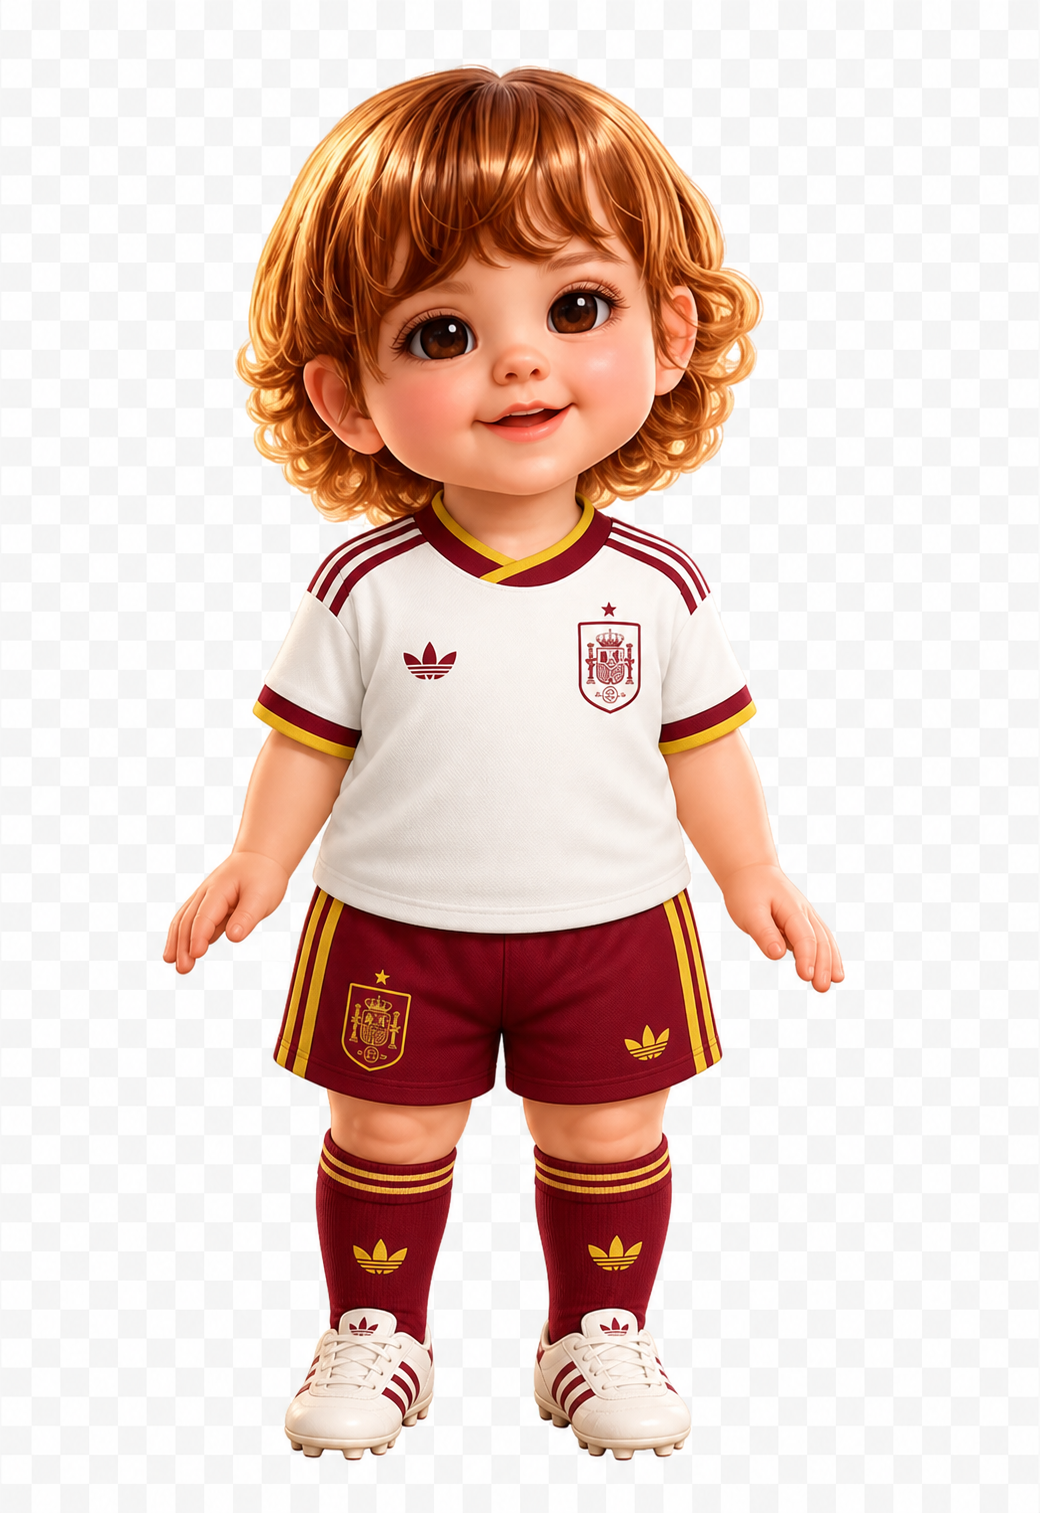
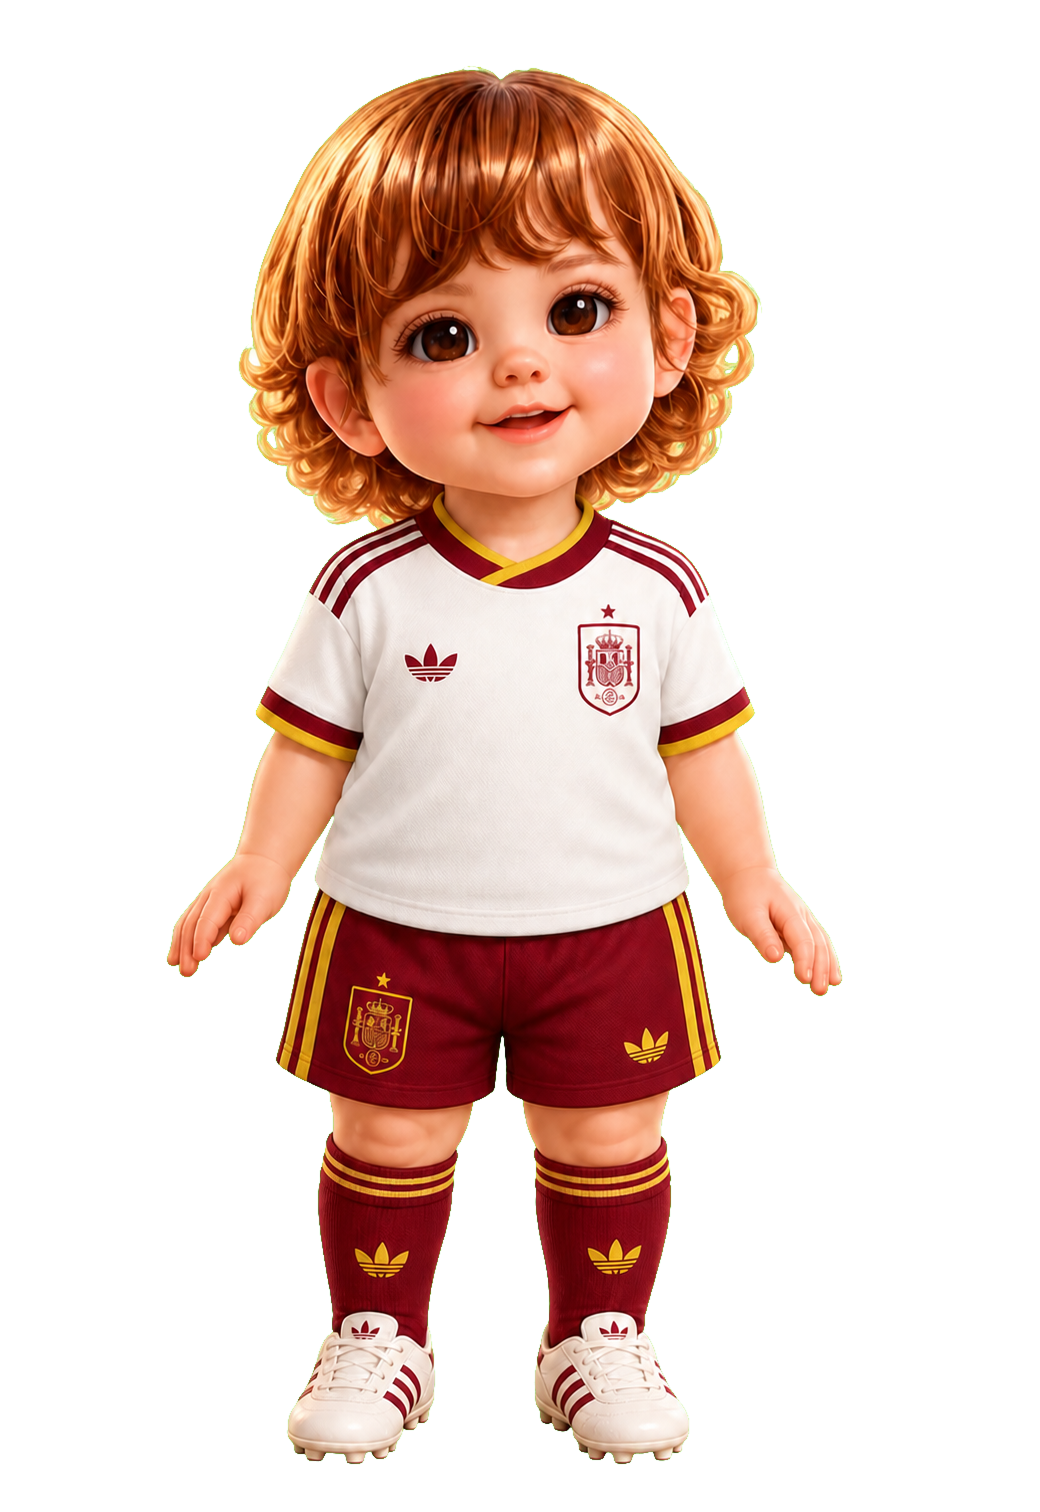
Fix Spain and Argentina outfit cutouts

diff --git a/public/app/script.js b/public/app/script.js
@@ -28,12 +28,12 @@ const outfits={original:"Su look original",jardinera:"Jardinera arcoíris",lluvi
 const isNationalKit=name=>name==="espana"||name==="argentina";
 const outfitImage=name=>`img/personajes/armario/display/${name}.${isNationalKit(name)?"png":"webp"}`;
 let selectedOutfit=(()=>{try{const saved=localStorage.getItem("holaPequeOutfit");return saved==="flores"?"original":outfits[saved]?saved:"original"}catch{return "original"}})();
-function showChosenOutfit(name){const src=outfitImage(name),kit=isNationalKit(name),mascot=document.querySelector("#mascot-button .mascot"),card=document.querySelector(".card-illustration--dress");if(mascot){mascot.src=src;mascot.alt=`Nuestra amiga lleva ${outfits[name].toLowerCase()}`;mascot.classList.toggle("kit-image",kit)}if(card){card.src=src;card.classList.toggle("kit-image",kit)}}
+function showChosenOutfit(name){const src=outfitImage(name),mascot=document.querySelector("#mascot-button .mascot"),card=document.querySelector(".card-illustration--dress");if(mascot){mascot.src=src;mascot.alt=`Nuestra amiga lleva ${outfits[name].toLowerCase()}`}if(card){card.src=src}}
 let wardrobeCarousel=null,wardrobeDirection=1;
 function startLookCarousel(){const rail=document.querySelector(".outfit-list"),manual=matchMedia("(max-width:800px)").matches;clearInterval(wardrobeCarousel);wardrobeCarousel=null;wardrobeDirection=1;if(manual){const chosen=rail.querySelector(`[data-outfit="${selectedOutfit}"]`);rail.scrollTo({left:0,top:Math.max(0,(chosen?.offsetTop||0)-rail.clientHeight/3),behavior:"auto"});return}rail.scrollTo({left:0,top:0,behavior:"auto"});wardrobeCarousel=setInterval(()=>{const pos=rail.scrollLeft,end=rail.scrollWidth-rail.clientWidth;if(end<2)return;wardrobeDirection=pos>=end-4?-1:pos<=4?1:wardrobeDirection;rail.scrollBy({left:wardrobeDirection*Math.min(220,rail.clientWidth*.7),behavior:"smooth"})},1350)}
 function speakWardrobeIntro(){if(!("speechSynthesis" in window))return;window.speechSynthesis.cancel();const phrase=new SpeechSynthesisUtterance("¡Elige un look!");phrase.lang="es-ES";phrase.rate=.82;phrase.pitch=1.25;const voices=window.speechSynthesis.getVoices(),voice=voices.find(v=>v.lang.toLowerCase().startsWith("es")&&/female|mujer|elvira|ximena|dalia|helena|lucia|paulina/i.test(v.name))||voices.find(v=>v.lang.toLowerCase().startsWith("es"));if(voice)phrase.voice=voice;window.speechSynthesis.speak(phrase)}
 function startWardrobe(){changeOutfit(selectedOutfit,false);document.querySelector("#wardrobe-feedback").textContent="";startLookCarousel();speakWardrobeIntro()}
-function changeOutfit(name,speak=true){selectedOutfit=name;try{localStorage.setItem("holaPequeOutfit",name)}catch{}const avatar=document.querySelector("#wardrobe-avatar");avatar.classList.remove("is-changing");void avatar.offsetWidth;avatar.src=outfitImage(name);avatar.alt=`La niña lleva ${outfits[name].toLowerCase()}`;avatar.classList.toggle("kit-image",isNationalKit(name));avatar.classList.add("is-changing");showChosenOutfit(name);document.querySelectorAll(".outfit-option").forEach(button=>button.classList.toggle("is-selected",button.dataset.outfit===name));if(speak){clearInterval(wardrobeCarousel);const feedback=document.querySelector("#wardrobe-feedback");feedback.textContent="⭐ ¡Bravo! ⭐";feedback.classList.remove("is-showing");void feedback.offsetWidth;feedback.classList.add("is-showing");playVoiceFile("sonidos/voz/mascota/1.mp3?v=2")}}
+function changeOutfit(name,speak=true){selectedOutfit=name;try{localStorage.setItem("holaPequeOutfit",name)}catch{}const avatar=document.querySelector("#wardrobe-avatar");avatar.classList.remove("is-changing");void avatar.offsetWidth;avatar.src=outfitImage(name);avatar.alt=`La niña lleva ${outfits[name].toLowerCase()}`;avatar.classList.add("is-changing");showChosenOutfit(name);document.querySelectorAll(".outfit-option").forEach(button=>button.classList.toggle("is-selected",button.dataset.outfit===name));if(speak){clearInterval(wardrobeCarousel);const feedback=document.querySelector("#wardrobe-feedback");feedback.textContent="⭐ ¡Bravo! ⭐";feedback.classList.remove("is-showing");void feedback.offsetWidth;feedback.classList.add("is-showing");playVoiceFile("sonidos/voz/mascota/1.mp3?v=2")}}
 document.querySelectorAll("[data-outfit]").forEach(button=>{button.addEventListener("pointerdown",()=>{clearInterval(wardrobeCarousel);wardrobeCarousel=null},{passive:true});button.onclick=()=>changeOutfit(button.dataset.outfit)});
 document.querySelector("#wardrobe-dance").onclick=()=>{const avatar=document.querySelector("#wardrobe-avatar");avatar.classList.remove("is-dancing");void avatar.offsetWidth;avatar.classList.add("is-dancing");playVoiceFile("sonidos/voz/mascota/0.mp3?v=2")};
 showChosenOutfit(selectedOutfit);

diff --git a/public/app/index.html b/public/app/index.html
@@ -152,8 +152,8 @@
         <button class="outfit-option" data-outfit="azul-lazo" aria-label="Vestido azul con lazo"><img src="img/personajes/armario/thumbs/azul-lazo.webp" alt="" loading="lazy"><span>🎀</span></button>
         <button class="outfit-option" data-outfit="ceremonia" aria-label="Vestido verde agua"><img src="img/personajes/armario/thumbs/ceremonia.webp" alt="" loading="lazy"><span>🌿</span></button>
         <button class="outfit-option" data-outfit="coral" aria-label="Conjunto salmón"><img src="img/personajes/armario/thumbs/coral.webp" alt="" loading="lazy"><span>☀</span></button>
-        <button class="outfit-option" data-outfit="espana" aria-label="Equipación de España"><img class="kit-image" src="img/personajes/armario/display/espana.png" alt="" loading="lazy"><span>🇪🇸</span></button>
-        <button class="outfit-option" data-outfit="argentina" aria-label="Equipación de Argentina"><img class="kit-image" src="img/personajes/armario/display/argentina.png" alt="" loading="lazy"><span>🇦🇷</span></button>
+        <button class="outfit-option" data-outfit="espana" aria-label="Equipación de España"><img src="img/personajes/armario/display/espana.png" alt="" loading="lazy"><span>🇪🇸</span></button>
+        <button class="outfit-option" data-outfit="argentina" aria-label="Equipación de Argentina"><img src="img/personajes/armario/display/argentina.png" alt="" loading="lazy"><span>🇦🇷</span></button>
       </div>
       <p id="wardrobe-feedback" class="wardrobe-feedback" aria-live="polite"></p>
       <button id="wardrobe-dance" class="wardrobe-dance" aria-label="Haz bailar a la niña">🎵 <span>¡A bailar!</span></button>
@@ -218,7 +218,7 @@
     </div>
   </section>
   <div id="audio-status" class="sr-only" aria-live="polite"></div>
-  <script src="script.js?v=20260829-1"></script>
+  <script src="script.js?v=20260829-2"></script>
 </body>
 </html>
 

diff --git a/public/app/styles.css b/public/app/styles.css
@@ -111,4 +111,3 @@ body{background-image:url("img/interfaz/fondo.webp")}
 @media(min-width:801px){.activity-card--coloring #coloring-canvas{width:auto;height:calc(100dvh - 160px);max-width:100%;max-height:calc(100% - 12px)}}
 
 /* Recorte limpio para equipaciones generadas sobre la silueta original. */
-.kit-image{-webkit-mask:url("img/personajes/armario/display/original.webp") center/contain no-repeat;mask:url("img/personajes/armario/display/original.webp") center/contain no-repeat}
